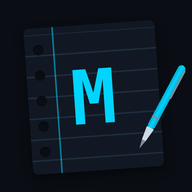
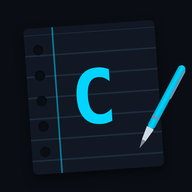
Rename site to CheatSheet and describe its purpose
- サイト名を CheatSheet に変更し、説明（description・llms_description）を
  「特定のツールやライブラリに依存する使い方をまとめる場所」に合わせる
- アイコン・OGP 画像を新しいサイト名で作り直す（branding/render.py）
- スキルの説明を CheatSheet 向けにし、memo-style に「このサイトに書くもの」を追加
  （ツール依存の内容を書く。一般的な概念の解説は対象外。出典と確認日を書く）
- 仕組み（memo.py・memo-* スキル名・README・memo-detail.md）は memo-kit のまま

Claude-Session: https://claude.ai/code/session_01Ao2W7ZmLTVkXTcvh9K6Tkz

Changed region(s): [[0.375, 0.3438, 0.625, 0.6562]]

diff --git a/src/roadmap.html b/src/roadmap.html
@@ -3,8 +3,8 @@
 <head>
 <meta charset="UTF-8">
 <meta name="viewport" content="width=device-width, initial-scale=1.0">
-<title data-memo-site="{site_name} ロードマップ">MemoKit ロードマップ</title>
-<meta name="description" content="MemoKit にあるメモと、これから埋めたいテーマを分野ごとのチェックリストにしたページ。メモが追加されると自動でチェックが付く" data-memo-site-content="{site_name} にあるメモと、これから埋めたいテーマを分野ごとのチェックリストにしたページ">
+<title data-memo-site="{site_name} ロードマップ">CheatSheet ロードマップ</title>
+<meta name="description" content="CheatSheet にあるメモと、これから埋めたいテーマを分野ごとのチェックリストにしたページ。メモが追加されると自動でチェックが付く" data-memo-site-content="{site_name} にあるメモと、これから埋めたいテーマを分野ごとのチェックリストにしたページ">
 <meta name="robots" content="noindex">
 <link rel="stylesheet" href="https://fonts.googleapis.com/css2?family=JetBrains+Mono:wght@500;700&family=Noto+Sans+JP:wght@400;500;700&display=swap">
 <style>
@@ -180,7 +180,7 @@ footer a { color: var(--accent); }
     </ul>
   </details>
 
-  <footer><a href="index.html" data-memo-site="{site_name} 一覧">MemoKit 一覧</a></footer>
+  <footer><a href="index.html" data-memo-site="{site_name} 一覧">CheatSheet 一覧</a></footer>
 </div>
 
 <script>

diff --git a/src/index.html b/src/index.html
@@ -3,7 +3,7 @@
 <head>
 <meta charset="UTF-8">
 <meta name="viewport" content="width=device-width, initial-scale=1.0">
-<title data-memo-site="{site_name}">MemoKit</title>
+<title data-memo-site="{site_name}">CheatSheet</title>
 <meta name="description" content="Claude に作ってもらった解説ページの置き場" data-memo-site-content="{description}">
 <link rel="stylesheet" href="https://fonts.googleapis.com/css2?family=JetBrains+Mono:wght@500;700&family=Noto+Sans+JP:wght@400;500;700&display=swap">
 <style>
@@ -115,7 +115,7 @@ footer a { color: var(--accent); }
 <body>
 <div class="wrap">
   <header>
-    <h1 data-memo-site="{site_name}">MemoKit</h1>
+    <h1 data-memo-site="{site_name}">CheatSheet</h1>
     <p class="lead" data-memo-site="{description}">Claude に作ってもらった解説ページの置き場</p>
   </header>
 

diff --git a/.claude/skills/memo-style/SKILL.md b/.claude/skills/memo-style/SKILL.md
@@ -1,11 +1,11 @@
 ---
 name: memo-style
-description: MEMO リポジトリ用の解説ページ（HTML 1 枚）を新しく作るときのデザイン規約とテンプレート。「〜の図解ページを作って」「MEMO 用に解説を書いて」など、新規にメモ HTML を書くときに必ず読む。既存 HTML を登録するだけなら memo-publish を使う。
+description: CheatSheet リポジトリ用のページ（特定のツール・ライブラリの使い方をまとめた HTML 1 枚）を新しく作るときの、書く範囲・デザイン規約とテンプレート。「〜のチートシートを作って」「CheatSheet 用にまとめて」など、新規にページの HTML を書くときに必ず読む。既存 HTML を登録するだけなら memo-publish を使う。
 ---
 
 # memo-style
 
-MEMO の各ページを見た目・作りの両面で揃えるための規約。
+CheatSheet の各ページを、書く範囲・見た目・作りの面で揃えるための規約。
 新規作成時は、リポジトリのルートで次を実行してテンプレートから作り、表示されたパスのファイルに中身を書く。
 
 ```bash
@@ -14,6 +14,15 @@ python3 scripts/memo.py new NAME   # NAME は英小文字・ハイフン（例: 
 ```
 
 テンプレートの実体はこのフォルダの `template.html`。置き場所はスクリプトが決めるので、自分でパスを組み立ててコピーしない。
+
+## このサイトに書くもの
+
+CheatSheet は、**特定のツール・ライブラリ・フレームワーク・サービスに依存する説明**を、あとで引きやすいようにまとめる場所。
+
+- 書くもの: そのツールで「何ができるか」と「どう使うか」。コマンドとオプション、API、設定ファイルのキー、典型的な手順、ハマりどころ、似たツールとの使い分け
+- 書かないもの: 特定のツールに依存しない一般的な概念の解説（設計手法、プロトコルの仕組み、アルゴリズムなど）。それは別の解説サイト（MEMO）の役目なので、題材がそうならユーザーに伝えて確認する
+- 1 ページ 1 ツール（大きいツールは「CLI」「設定」のように分けてよい）。ページ名はツール名にする（例: `vite-plus`、`docker-compose`）
+- バージョンで変わる内容が多いので、本文の最後に**出典（公式ドキュメントの URL）と確認した日付**を書く。メジャーバージョンが前提になる記述は、その版を明記する
 
 ## 基本方針
 
@@ -48,9 +57,10 @@ python3 scripts/memo.py new NAME   # NAME は英小文字・ハイフン（例: 
 
 1. `h1` タイトル（アクセント色、等幅フォント）＋ 1 行のサブタイトル
 2. 要点（3 行程度の「ざっくり言うと」）
-3. 本体: 図解・タブ・ステップ。セクションは `h2` で区切る
-4. 必要なら「よくある誤解」「コマンド例」
-5. ページ下部フッターの「← 一覧に戻る」リンク（`index.html` へ。テンプレートに含まれている。固定表示のボタンにはしない）
+3. 本体: 図解・タブ・ステップ。セクションは `h2` で区切る。チートシートとして引きやすいよう、コマンドや API は用途別の表にまとめる（項目が多ければタブと絞り込みを付ける）
+4. 必要なら「設定ファイルの例」「よくある誤解」
+5. 出典（公式ドキュメントへのリンク）と確認した日付
+6. ページ下部フッターの「← 一覧に戻る」リンク（`index.html` へ。テンプレートに含まれている。固定表示のボタンにはしない）
 
 ## メタ情報（必須）
 

diff --git a/.claude/skills/memo-reference/SKILL.md b/.claude/skills/memo-reference/SKILL.md
@@ -1,6 +1,6 @@
 ---
 name: memo-reference
-description: MEMO の既存メモを参照・検索・部分修正するときに使う。「前に〜のメモ書いたよね」「MEMO に〜ってある？」「〜のメモを踏まえて説明して」「〜のメモのこの部分を直して」など。HTML ではなく Markdown 版（dist/md/。build で作る）を読み、直すときは HTML の該当箇所だけを読んで編集する。
+description: CheatSheet の既存メモを参照・検索・部分修正するときに使う。「前に〜のチートシート書いたよね」「CheatSheet に〜ってある？」「〜のメモを踏まえて説明して」「〜のメモのこの部分を直して」など。HTML ではなく Markdown 版（dist/md/。build で作る）を読み、直すときは HTML の該当箇所だけを読んで編集する。
 ---
 
 # memo-reference
@@ -33,7 +33,7 @@ python3 scripts/memo.py build       # dist/ に Markdown 版を作る（src/ は
 
 - まず `dist/llms.txt` を読む（全体で十数 KB）。タイトル・説明・タグで当たりをつける。
 - 言葉で探すなら `dist/md/` を Grep する（`-n` で行番号つき）。言い回しが違いそうなら、同義語・英語表記でも探す。
-- 見つからなければ「MEMO にはない」と伝える。似たメモがあればそれを挙げる。
+- 見つからなければ「CheatSheet にはない」と伝える。似たメモがあればそれを挙げる。
 
 ## 2. 読む
 
@@ -50,7 +50,7 @@ HTML を読むのは次のときだけ:
 ## 3. 答える・案内する
 
 - メモの内容を自分の言葉でまとめて答え、どのメモに基づくかを示す。Markdown 版をそのまま貼らない。
-- 図が説明の助けになる箇所では、Markdown 版の `→ URL#id` のリンクを添えて「図はここ」と案内する。MEMO の売りは図解なので、文章で説明しきろうとせず元ページに誘導してよい。
+- 図が説明の助けになる箇所では、Markdown 版の `→ URL#id` のリンクを添えて「図はここ」と案内する。CheatSheet の売りは図解なので、文章で説明しきろうとせず元ページに誘導してよい。
 - メモの記述が古そう・怪しいと気づいたら、答えとは別にそう伝える（直すかどうかはユーザーに聞く）。
 
 ## 4. 部分修正

diff --git a/.claude/skills/memo-maintain/SKILL.md b/.claude/skills/memo-maintain/SKILL.md
@@ -1,11 +1,11 @@
 ---
 name: memo-maintain
-description: MEMO リポジトリの Python スクリプト（scripts/memo.py・scripts/memolib/・tests/）やトップ・ロードマップページの JS、GitHub Actions を直すときの手順。「memo.py を直して」「コマンドを追加して」「リファクタして」「テストを足して」などで使う。メモの作成・登録・参照には使わない（memo-style / memo-publish / memo-reference）。
+description: CheatSheet リポジトリの Python スクリプト（scripts/memo.py・scripts/memolib/・tests/）やトップ・ロードマップページの JS、GitHub Actions を直すときの手順。「memo.py を直して」「コマンドを追加して」「リファクタして」「テストを足して」などで使う。メモの作成・登録・参照には使わない（memo-style / memo-publish / memo-reference）。
 ---
 
 # memo-maintain
 
-MEMO の仕組みそのもの（スクリプト・共通ファイル・ワークフロー）を変えるときの手順。
+CheatSheet の仕組みそのもの（スクリプト・共通ファイル・ワークフロー）を変えるときの手順。
 仕組みの全体像は `memo-detail.md`（リポジトリ直下）が唯一の説明書なので、**まずそこを読み、最後にそこを更新する**。
 
 ## 守ること

diff --git a/.claude/skills/memo-publish/SKILL.md b/.claude/skills/memo-publish/SKILL.md
@@ -1,11 +1,11 @@
 ---
 name: memo-publish
-description: Claude が作った HTML（貼り付け・添付・アーティファクト・既存ファイル）を MEMO リポジトリに登録する。「MEMO に入れて」「メモに追加」「これ保存して」と言われたとき、または memo-from-chat の最後の工程で使う。崩れチェック・メタ情報付与・一覧更新・commit/push まで行う。
+description: Claude が作った HTML（貼り付け・添付・アーティファクト・既存ファイル）を CheatSheet リポジトリに登録する。「CheatSheet に入れて」「チートシートに追加」「これ保存して」と言われたとき、または memo-from-chat の最後の工程で使う。崩れチェック・メタ情報付与・一覧更新・commit/push まで行う。
 ---
 
 # memo-publish
 
-HTML 1 枚を MEMO として登録する手順。
+HTML 1 枚を CheatSheet として登録する手順。
 
 ## 前提
 

diff --git a/.claude/skills/memo-factcheck/SKILL.md b/.claude/skills/memo-factcheck/SKILL.md
@@ -1,6 +1,6 @@
 ---
 name: memo-factcheck
-description: MEMO のページ（1 本または複数）を、書き手とは独立したサブエージェントにファクトチェックさせ、誤りや根拠不明の記述を報告・修正する。「ファクトチェックして」「事実確認して」と明示的に頼まれたときだけ使う。新規作成や保存のついでに勝手には実行しない。
+description: CheatSheet のページ（1 本または複数）を、書き手とは独立したサブエージェントにファクトチェックさせ、誤りや根拠不明の記述を報告・修正する。「ファクトチェックして」「事実確認して」と明示的に頼まれたときだけ使う。新規作成や保存のついでに勝手には実行しない。
 ---
 
 # memo-factcheck
